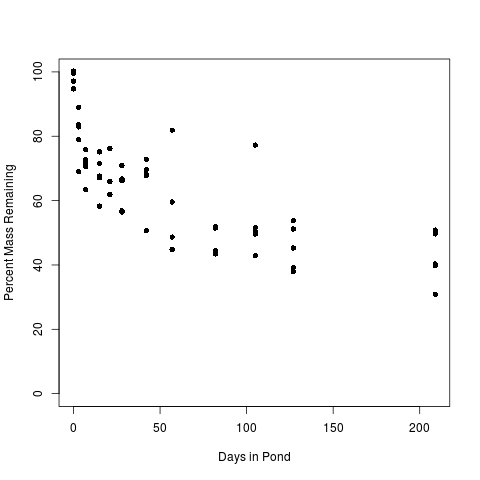
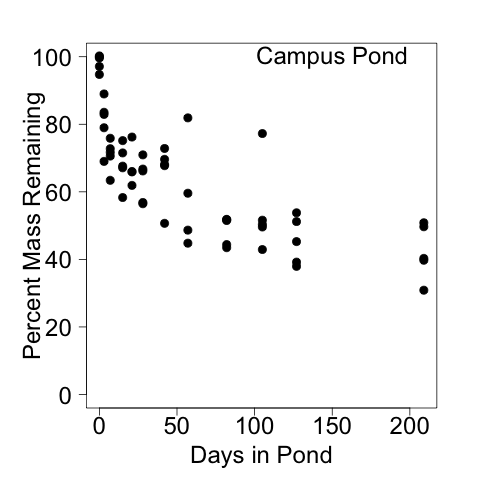
SFS figures

diff --git a/lab_notebook/analysis/Litter_Decomp_2013-14_analysis.md b/lab_notebook/analysis/Litter_Decomp_2013-14_analysis.md
@@ -14,6 +14,8 @@ The experiment was to assess the loss of mass from leaves in 3 ponds in Farmvill
 
 * Modified 1 July 2015 - KF - added additional data summary for manuscript
 
+* Modified 16 May 2016 - KF - modified figures for SFS 2016 talk
+
 ## Author
 
 KF
@@ -99,11 +101,13 @@ Create the days axis
 
     day.axis.DP <- leaf$days[leaf$lake == "Daulton Pond"] 
 
-    plot(prop.rem.DP[prop.rem.DP > 0] * 100 ~ day.axis.DP[prop.rem.DP > 0], xlab = "Days in Pond", ylab = "Percent Mass Remaining", ylim = c(0, 100), pch = 16)
-    dev.copy(png, "./output/plots/DP_decomp_mass_remain.png")
+    par(las = 1, mar=c(5, 6, 3, 3))
+    plot(prop.rem.DP[prop.rem.DP > 0] * 100 ~ day.axis.DP[prop.rem.DP > 0], xlab = "Days in Pond", ylab = "Percent Mass Remaining", ylim = c(0, 100), pch = 19, cex = 1.5, cex.axis = 1.5, cex.lab = 1.5)
+    text(150, 100, "Daulton Pond", cex = 1.5)
+    dev.copy(jpeg, "./output/plots/DP_decomp_mass_remain.jpg")
     dev.off()
 
-![Percent leaf pack mass remining in Daulton Pond by days in the pond](../output/plots/DP_decomp_mass_remain.png)
+![Percent leaf pack mass remining in Daulton Pond by days in the pond](../output/plots/DP_decomp_mass_remain.jpg)
 
 _Percent leaf pack mass remining in Daulton Pond by days in the pond_
 
@@ -165,12 +169,14 @@ _Natural log of proportion of leaf pack mass remining in Daulton Pond by days in
 
 ##### Graphical Analysis
     day.axis.CP <- leaf$days[leaf$lake == "Campus Pond"] 
-
-    plot(prop.rem.CP[prop.rem.CP > 0] * 100 ~ day.axis.CP[prop.rem.CP > 0], xlab = "Days in Pond", ylab = "Percent Mass Remaining", ylim = c(0, 100), pch = 16)
-    dev.copy(png, "./output/plots/CP_decomp_mass_remain.png")
+    
+    par(las = 1, mar = c(5, 6, 3, 3))
+    plot(prop.rem.CP[prop.rem.CP > 0] * 100 ~ day.axis.CP[prop.rem.CP > 0], xlab = "Days in Pond", ylab = "Percent Mass Remaining", ylim = c(0, 100), pch = 19, cex = 1.5, cex.axis = 1.5, cex.lab = 1.5)
+    text(150, 100, "Campus Pond", cex = 1.5)
+    dev.copy(jpeg, "./output/plots/CP_decomp_mass_remain.jpg")
     dev.off()
 
-![Percent leaf pack mass remining in Campus Pond by days in the pond](../output/plots/CP_decomp_mass_remain.png)
+![Percent leaf pack mass remining in Campus Pond by days in the pond](../output/plots/CP_decomp_mass_remain.jpg)
 
 _Percent leaf pack mass remining in Campus Pond by days in the pond_
 
@@ -235,11 +241,13 @@ _Natural log of proportion of leaf pack mass remining in Campus Pond by days in 
 
     day.axis.LPP <- leaf$days[leaf$lake == "Lancer Park Pond"]
 
-    plot(prop.rem.LPP[prop.rem.LPP > 0] * 100 ~ day.axis.LPP[prop.rem.LPP > 0], xlab = "Days in Pond", ylab = "Percent Mass Remaining", ylim = c(0, 100), pch = 16)
-    dev.copy(png, "./output/plots/LPP_decomp_mass_remain.png")
+    par(las = 1, mar = c(5, 6, 3, 3))
+    plot(prop.rem.LPP[prop.rem.LPP > 0] * 100 ~ day.axis.LPP[prop.rem.LPP > 0], xlab = "Days in Pond", ylab = "Percent Mass Remaining", ylim = c(0, 100), pch = 19, cex = 1.5, cex.axis = 1.5, cex.lab = 1.5)
+    text(150, 100, "Lancer Park Pond", cex = 1.5)
+    dev.copy(jpeg, "./output/plots/LPP_decomp_mass_remain.jpg")
     dev.off()
 
-![Percent leaf pack mass remining in Lancer Park Pond by days in the pond](../output/plots/LPP_decomp_mass_remain.png)
+![Percent leaf pack mass remining in Lancer Park Pond by days in the pond](../output/plots/LPP_decomp_mass_remain.jpg)
 
 _Percent leaf pack mass remining in Lancer Park Pond by days in the pond_
 
